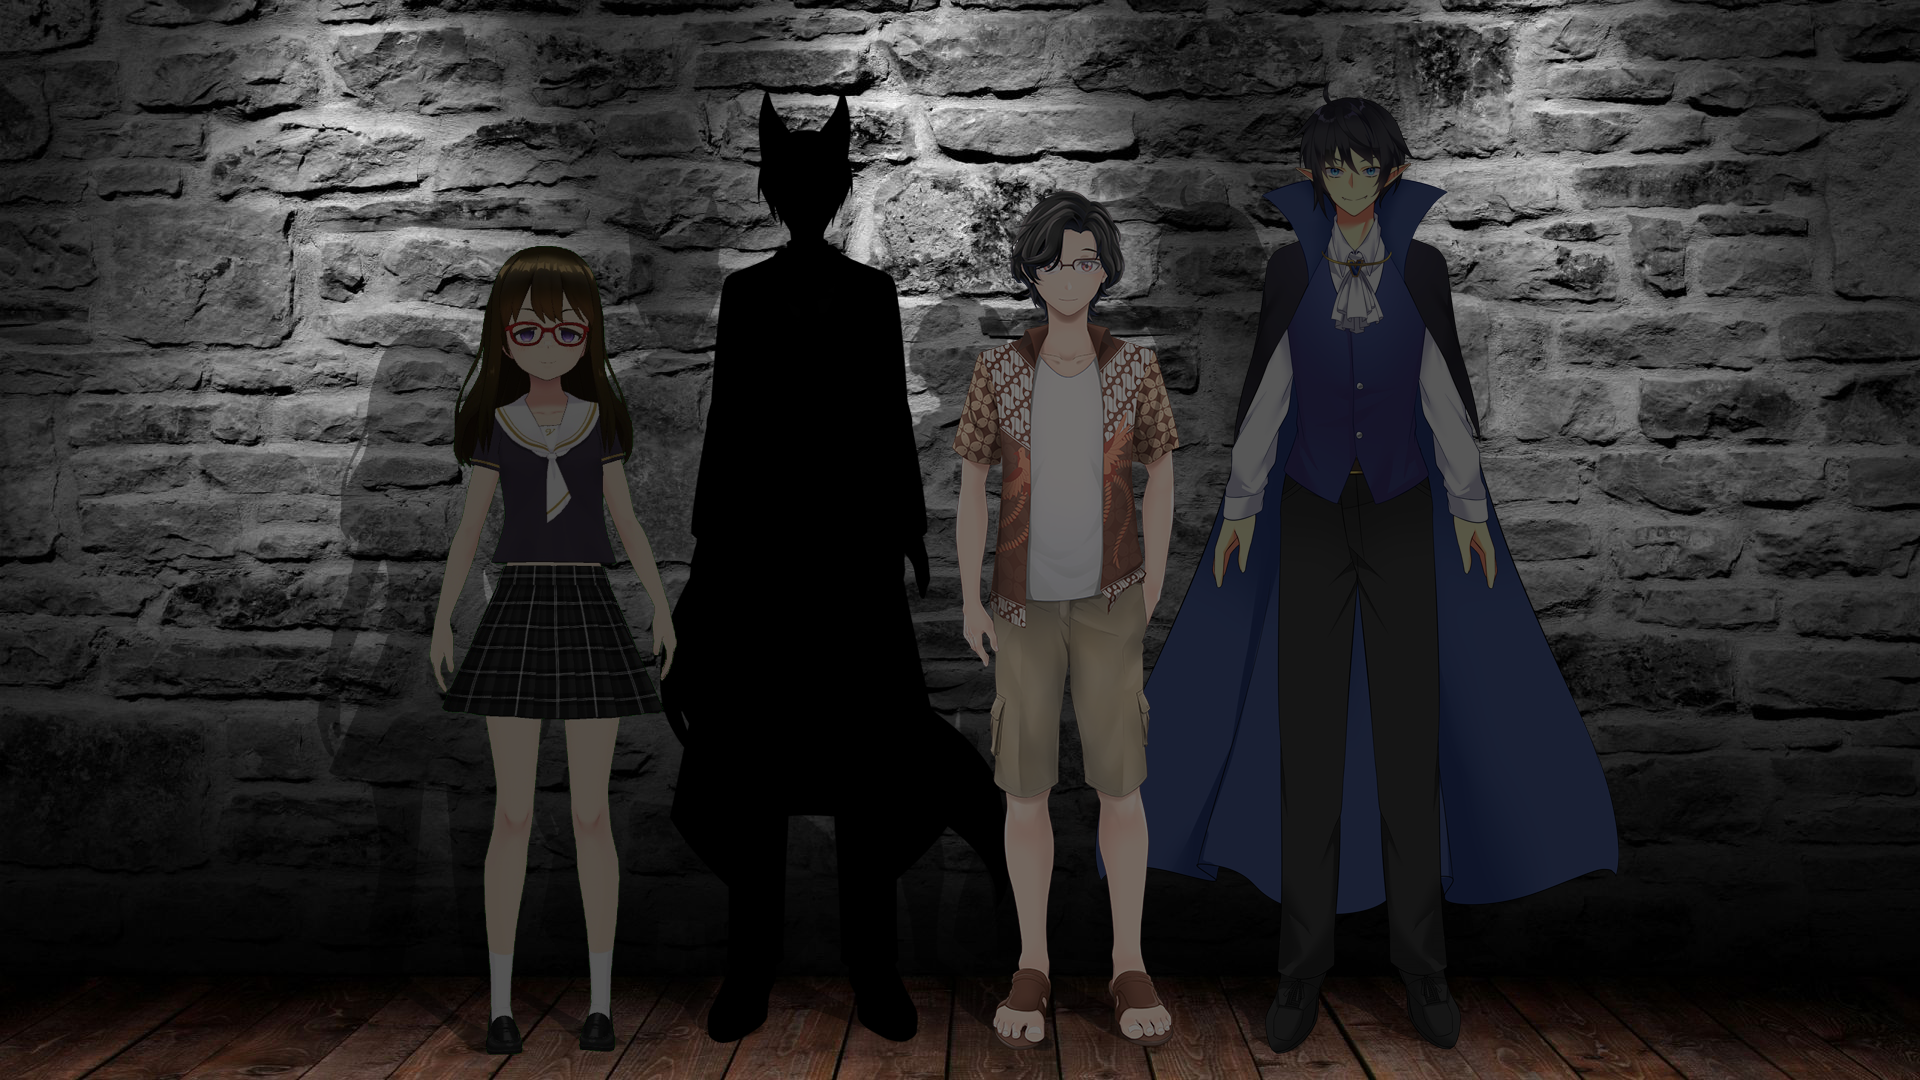
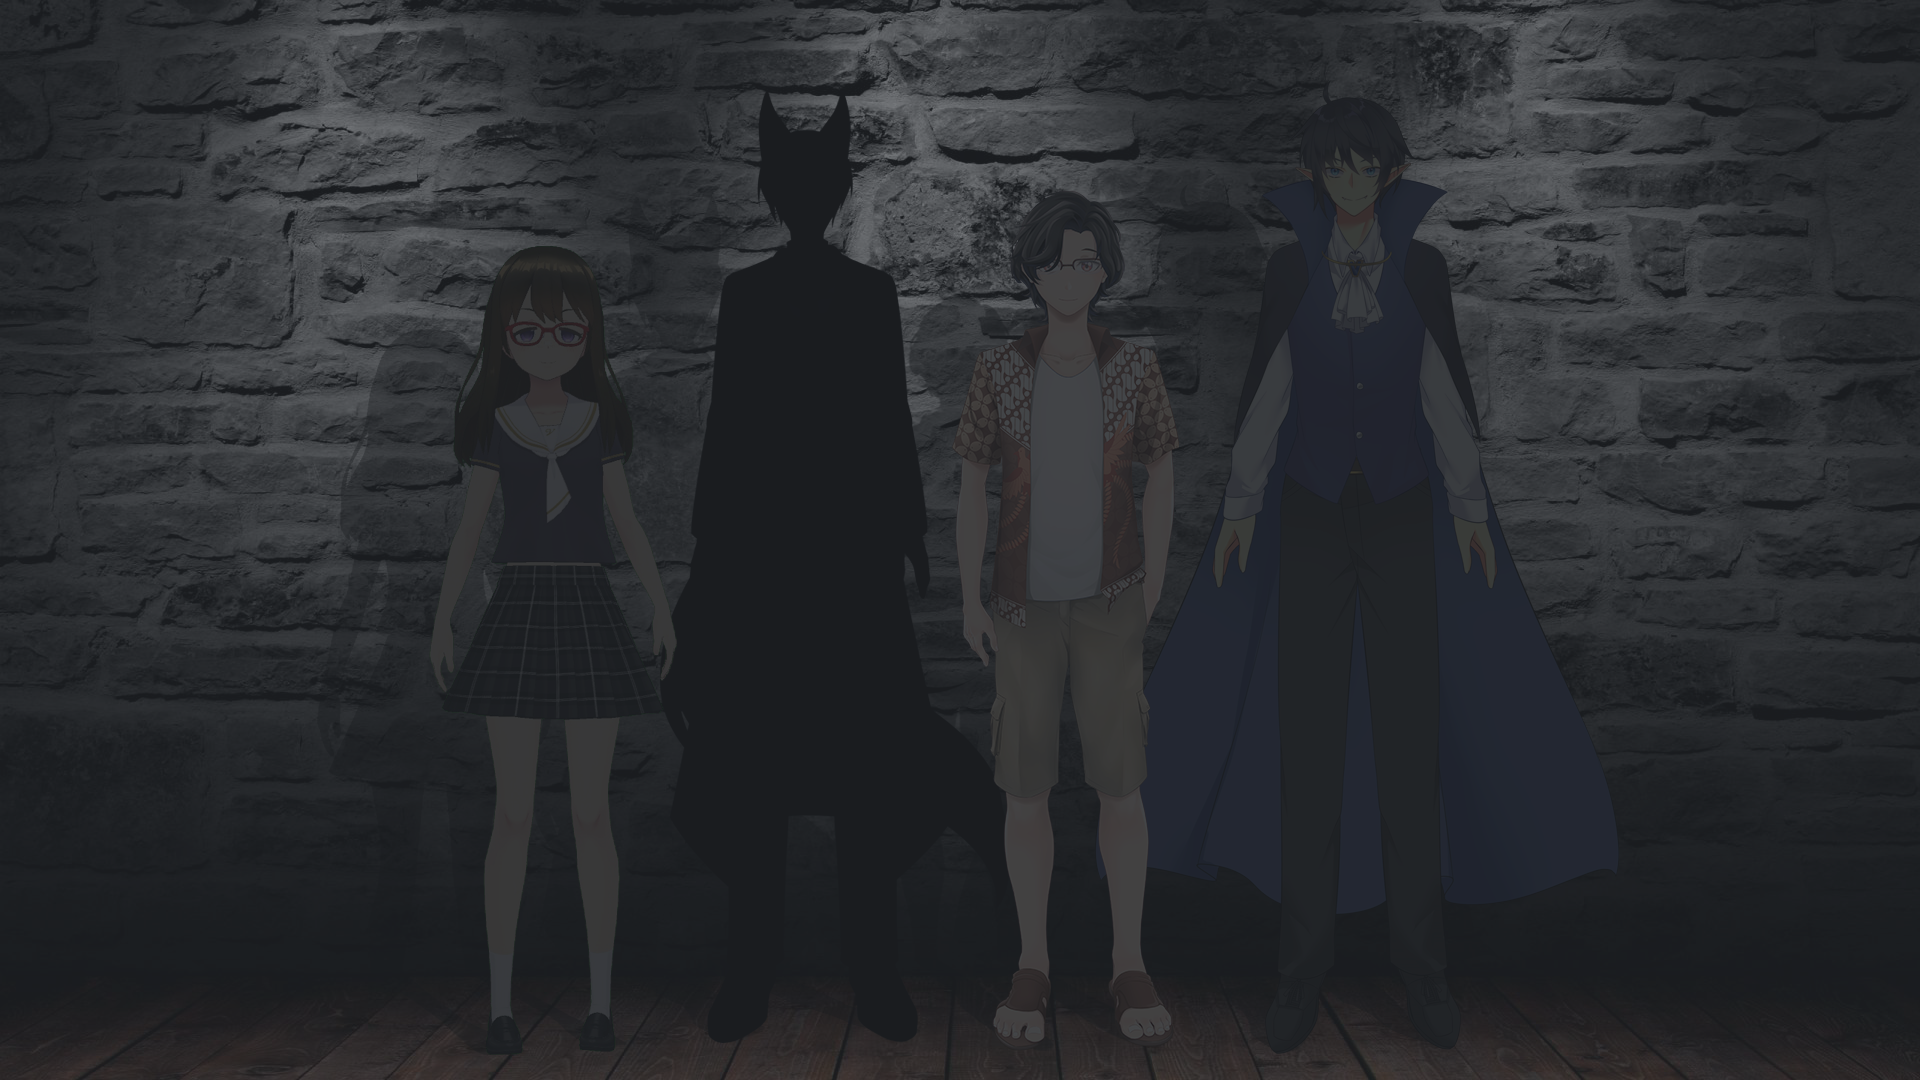
img resp
device img change

diff --git a/assets/css/style.css b/assets/css/style.css
@@ -45,7 +45,6 @@ h1, h2, h3, h4, h5, h6 {
 }
 
 
-
 #preloader .loading {
   display: block;
   /* border: 6px solid #428bca;
@@ -393,8 +392,15 @@ h1, h2, h3, h4, h5, h6 {
 }
 
 #hero .carousel-item::before {
-  content: '';
   background-color: rgba(12, 13, 14, 0.8);
+  background-image: url("/assets/img/slide/Team-nobg.png");
+  content: '';
+}
+
+@media only screen and (min-width: 500px) {
+  #hero .carousel-item::before{
+    background-image: url("/assets/img/slide/team.png");
+  }
 }
 
 #hero .carousel-container {

diff --git a/index.html b/index.html
@@ -77,7 +77,7 @@
       <ol class="carousel-indicators" id="hero-carousel-indicators"></ol>
 
         <!-- Slide 1 -->
-        <div class="carousel-item active" style="background-image: url(assets/img/slide/team.png)">
+        <div class="carousel-item active" >
           <div class="carousel-container">
             <div class="container">
               <img src="assets/img/4R.png" width="100" class="animate__animated animate__bounce"/>
